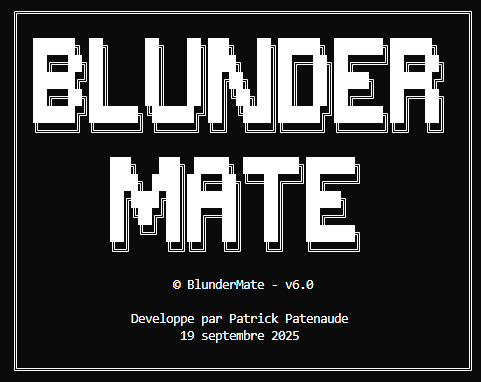
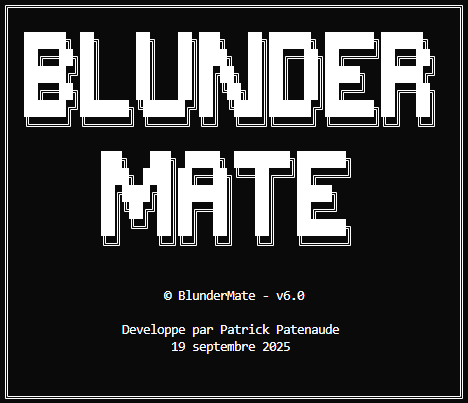
📚 README: Refonte complète + Interface welcome screen alignée
README REFONTE:
- 🖼 Nouvelles images: BLUNDERMATE_TITLE.png + PARTIE_IVH.png
- 📊 Tableaux condensés drastiquement (20+ lignes → 3 lignes concises)
- 📄 Ajout DOCUMENT_REMISE.md dans documentation technique
- 🎨 Redimensionnement images pour cohérence visuelle

INTERFACE FIXES:
- 📐 Welcome screen aligné: 20 → 24 lignes (même hauteur que menu)
- ✨ Espacement visuel cohérent entre tous les écrans
- 🎯 Design uniforme écran d'accueil ↔ menu principal

🤖 Generated with [Claude Code](https://claude.ai/code)

diff --git a/README.md b/README.md
@@ -13,12 +13,12 @@
 <table>
 <tr>
 <td width="50%" align="center">
-  <img src="docs/images/menu-principal.png" alt="Menu principal français" width="350">
-  <br><em>Menu principal avec modes de jeu</em>
+  <img src="docs/images/BLUNDERMATE_TITLE.png" alt="Écran titre BlunderMate" width="320" height="400">
+  <br><em>Écran d'accueil BlunderMate v6.0</em>
 </td>
 <td width="50%" align="center">
-  <img src="docs/images/partie-ia.png" alt="IA en action" width="400">
-  <br><em>IA en action avec évaluation temps réel</em>
+  <img src="docs/images/PARTIE_IVH.png" alt="Interface de jeu" width="400">
+  <br><em>Interface de jeu IA vs Humain</em>
 </td>
 </tr>
 </table>
@@ -107,30 +107,11 @@ swipl -t run_tests -s tests/tests.pl
 
 ## 🔧 Améliorations Futures
 
-### **🚀 Optimisations IA Avancées**
+**🚀 IA Avancée** : Opening Book • Tables de Transposition • Quiescence Search • Profondeur Adaptative
 
-| Amélioration | Description | Priorité | Bénéfice Attendu |
-|-------------|-------------|----------|------------------|
-| **📚 Opening Book Étendu** | Base de données réponses théoriques classiques | 🟢 Haute | Évite les erreurs d'ouverture, jeu plus naturel |
-| **💾 Tables de Transposition** | Cache des positions évaluées avec hash | 🟢 Haute | Performance 5-10x supérieure sur positions répétées |
-| **🎯 Quiescence Search** | Extension recherche tactique aux feuilles | 🟡 Moyenne | Meilleure évaluation des captures et menaces |
-| **🧠 Profondeur Adaptative** | Ajustement profondeur selon complexité position | 🟡 Moyenne | Optimisation temps/qualité selon contexte |
+**🎮 UX/UI** : Interface graphique • Analyse position • Format PGN • FEN Parser
 
-### **🎮 Expérience Utilisateur**
-
-| Amélioration | Description | Priorité | Bénéfice Attendu |
-|-------------|-------------|----------|------------------|
-| **🖼 Interface graphique** | Plateau visuel avec drag & drop | 🟡 Moyenne | Expérience utilisateur moderne |
-| **📊 Analyse de position** | Évaluation détaillée avec suggestions | 🟡 Moyenne | Aide pédagogique avancée |
-| **📝 Format PGN** | Sauvegarde/chargement parties standard | 🔵 Basse | Compatibilité écosystème échecs |
-| **⚙ FEN Parser** | Import/export positions spécifiques | 🟡 Moyenne | Tests et analyse positions complexes |
-
-### **♟ Règles Complètes**
-
-| Règle | Description | Priorité | Impact Gameplay |
-|-------|-------------|----------|-----------------|
-| **🏰 Roque** | Petit et grand roque selon règles FIDE | 🟢 Haute | Stratégie roi, développement naturel |
-| **⚡ En passant** | Capture pion en passant | 🟡 Moyenne | Tactiques avancées, positions spéciales |
+**♟ Règles** : Roque • En passant
 
 
 ## 📚 Documentation Technique
@@ -139,6 +120,7 @@ swipl -t run_tests -s tests/tests.pl
 |----------|-------------|
 | 📐 [**Architecture Guide**](docs/ARCHITECTURE_GUIDE_DEVELOPERS.md) | Architecture système complète |
 | 📄 [**Product Requirements**](docs/PRD.md) | Spécifications détaillées |
+| 🎓 [**Document de Remise**](docs/DOCUMENT_REMISE.md) | Spécifications projet IFT-2003 |
 
 ---
 
